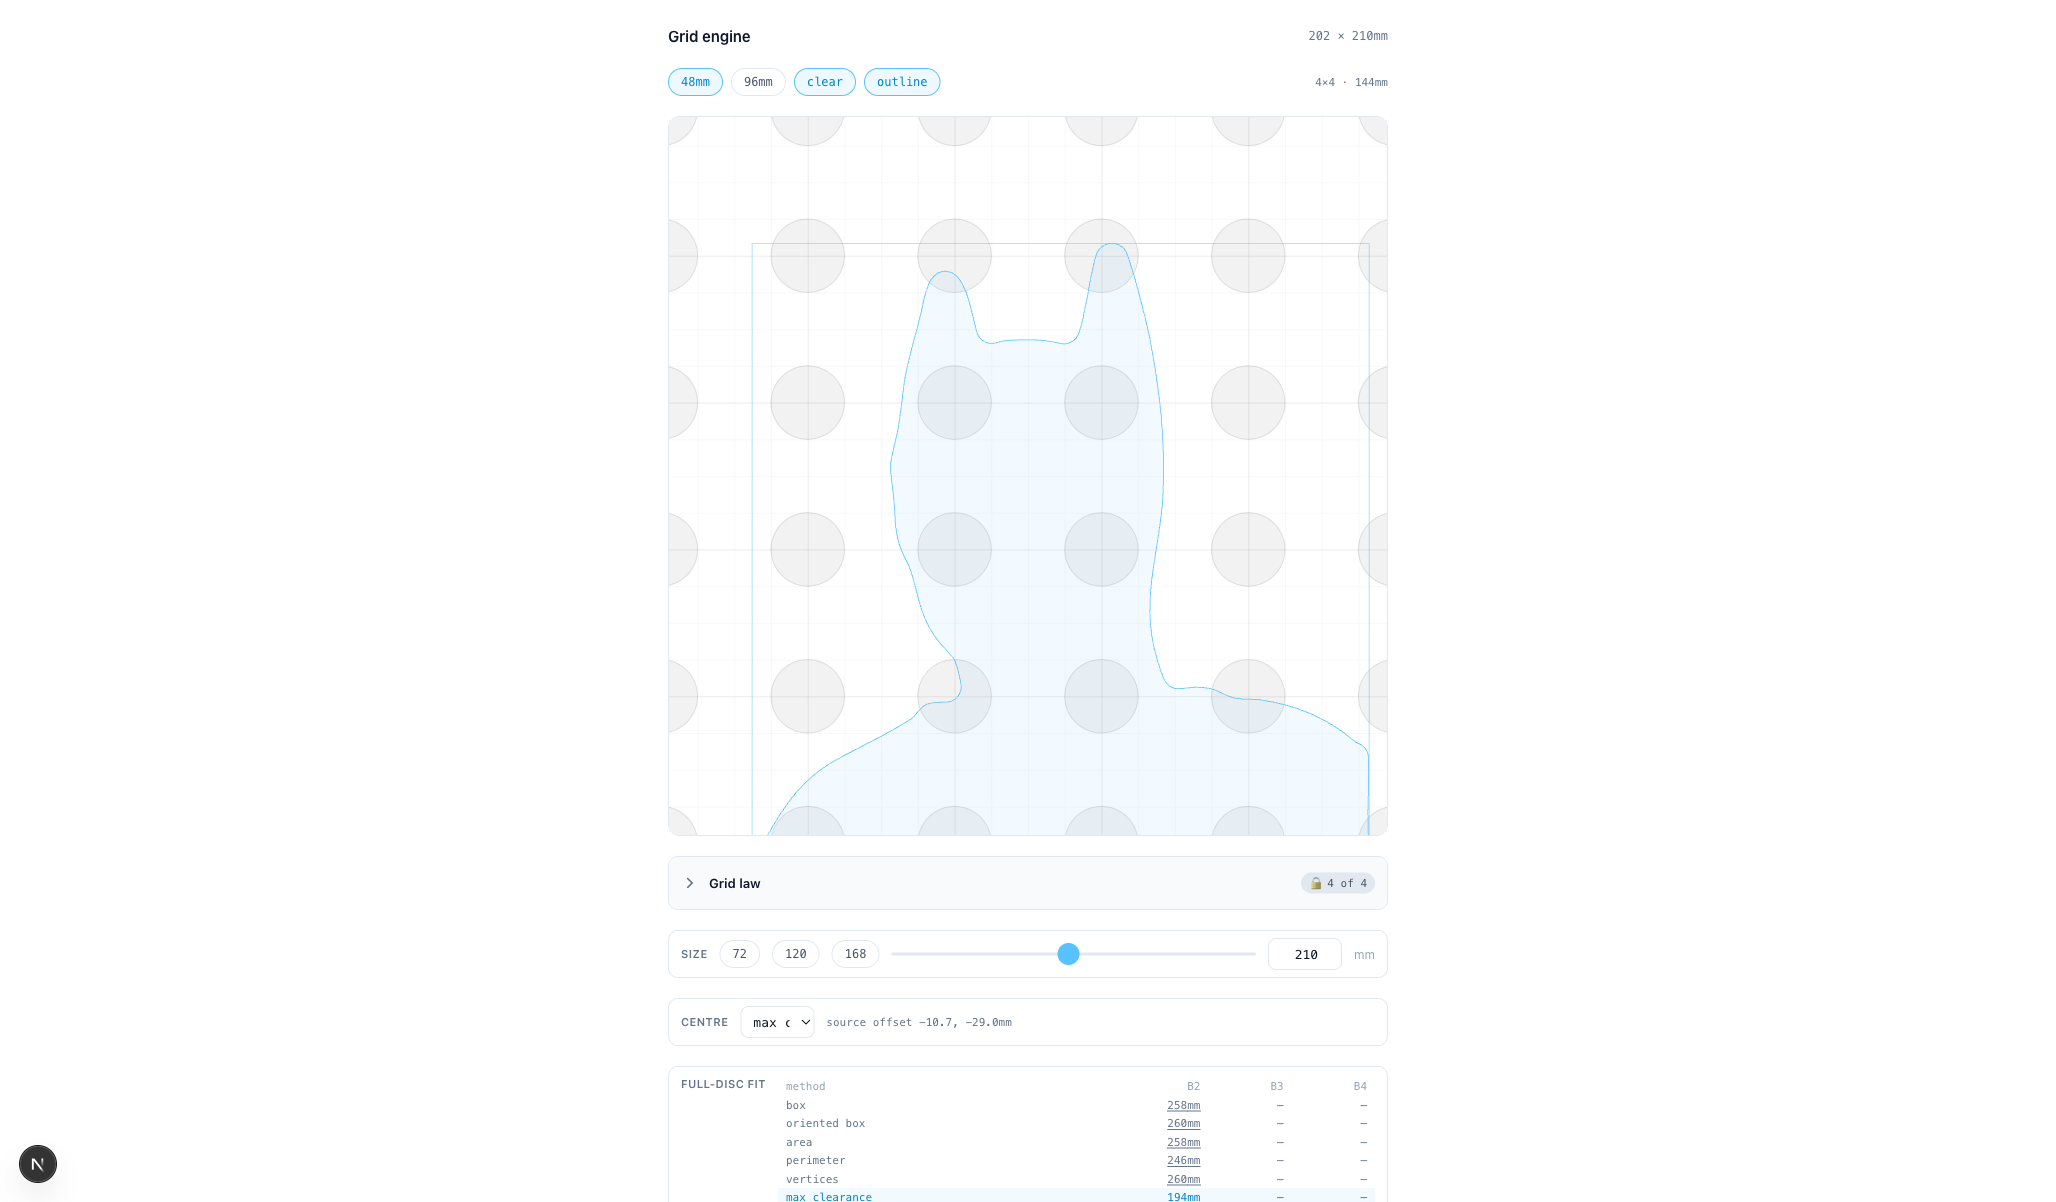
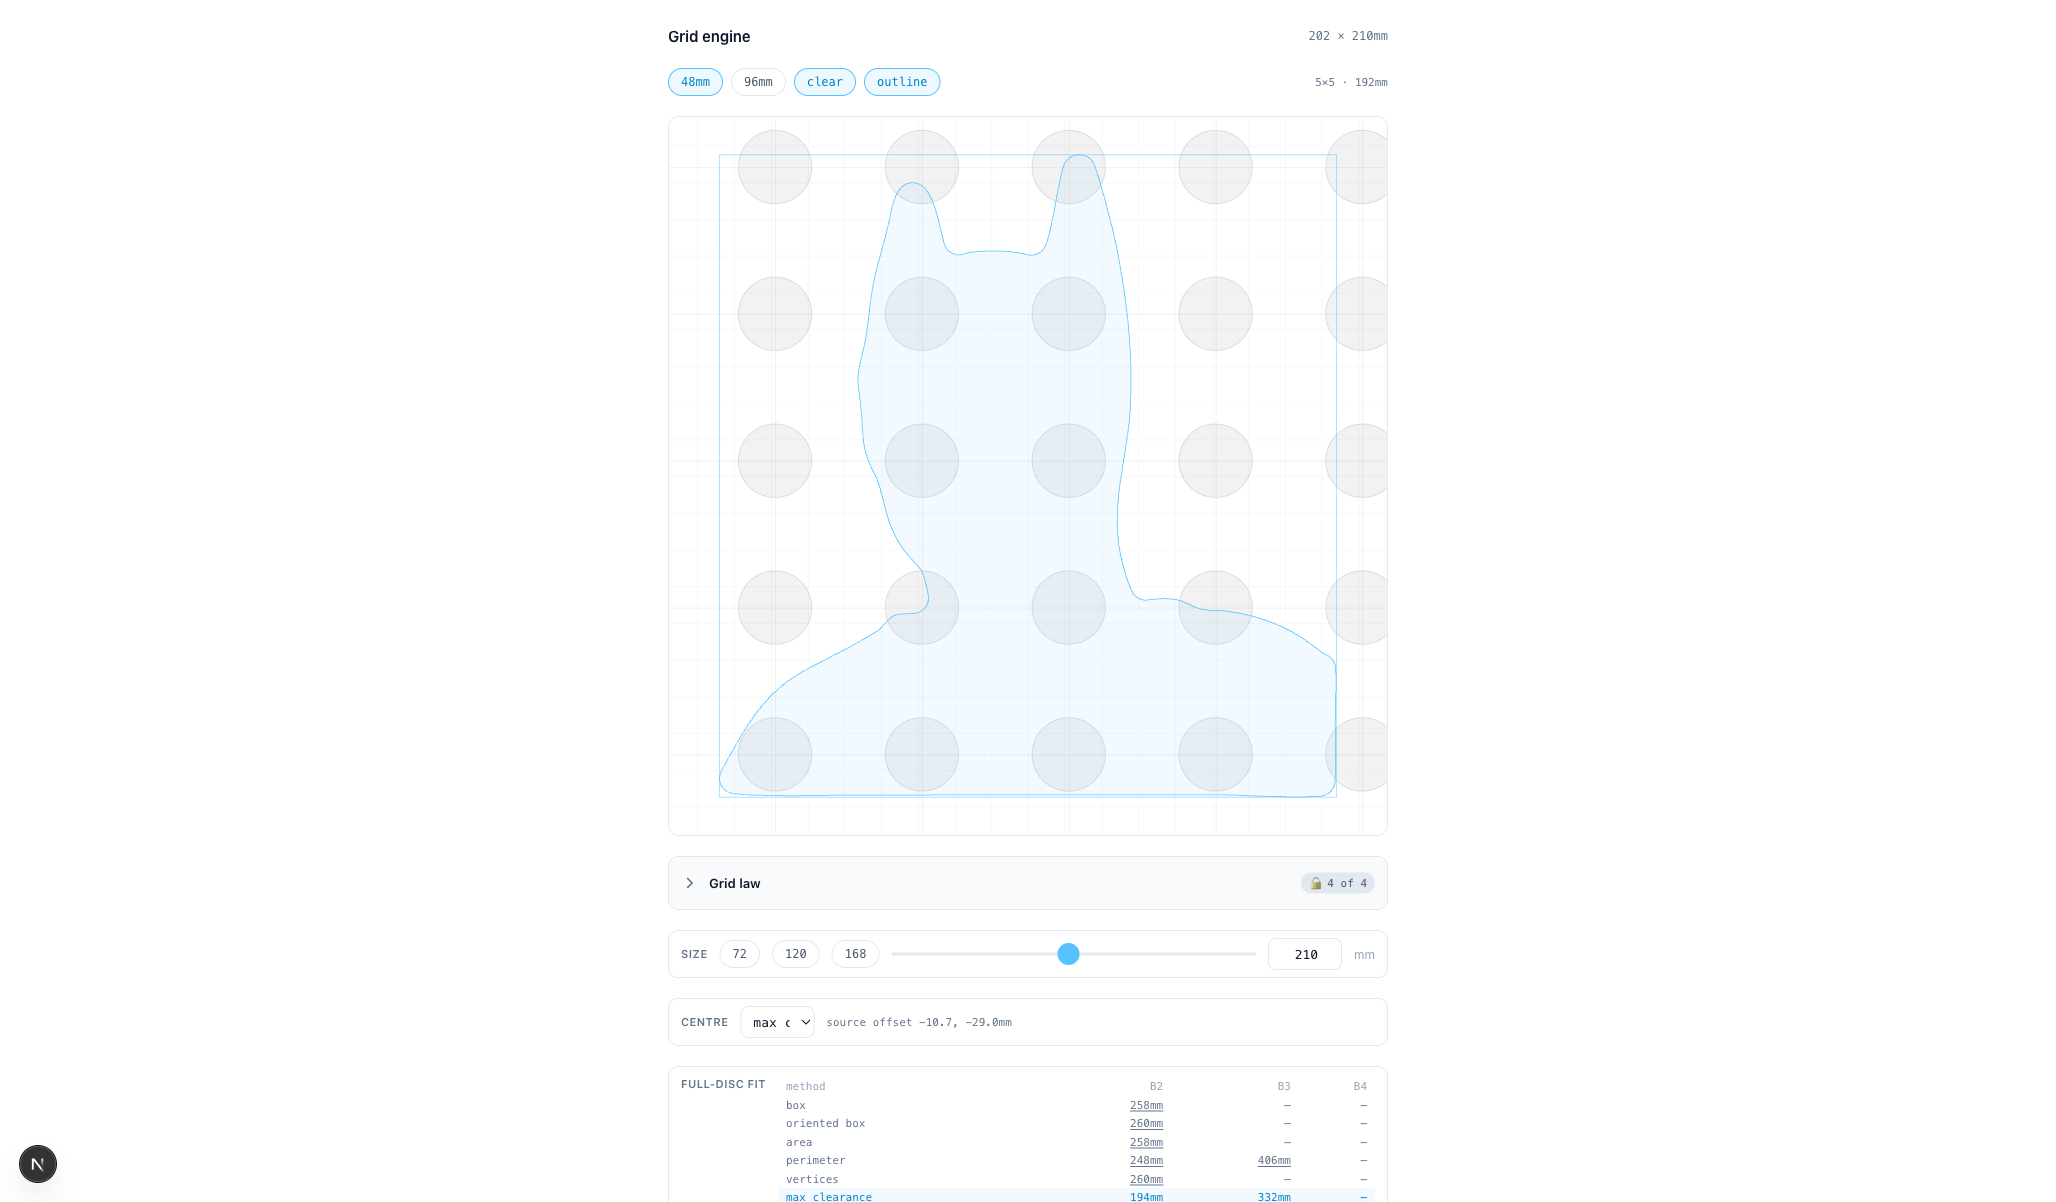
fix(grid-engine): align solver ceiling and applied scale

diff --git a/src/lib/grid-engine/__tests__/centre.test.ts b/src/lib/grid-engine/__tests__/centre.test.ts
@@ -96,7 +96,7 @@ describe('centre-method comparison', () => {
 
 describe('published full-disc placement solver', () => {
   it('rederives the exact square standards for bands 2, 3 and 4', () => {
-    const [answer] = compareCentres(RELEASED.grid, square, ['box'], [2, 3, 4])
+    const [answer] = compareCentres(RELEASED.grid, square, 100, ['box'], [2, 3, 4])
     expect(answer.fits.map(({ sizeMM }) => sizeMM)).toEqual([72, 120, 168])
     expect(answer.fits.map(({ magnetCount }) => magnetCount)).toEqual([4, 9, 16])
     expect(answer.fits.every(({ minimumClearanceMM }) => minimumClearanceMM! >= 12)).toBe(true)
@@ -106,14 +106,14 @@ describe('published full-disc placement solver', () => {
     const padding6 = { ...RELEASED.grid, paddingMM: 6 }
     const padding18 = { ...RELEASED.grid, paddingMM: 18 }
     const pitch96 = { ...RELEASED.grid, pitchMM: 96 }
-    expect(compareCentres(padding6, square, ['box'], [2])[0].fits[0].sizeMM).toBe(60)
-    expect(compareCentres(padding18, square, ['box'], [2])[0].fits[0].sizeMM).toBe(84)
+    expect(compareCentres(padding6, square, 100, ['box'], [2])[0].fits[0].sizeMM).toBe(60)
+    expect(compareCentres(padding18, square, 100, ['box'], [2])[0].fits[0].sizeMM).toBe(84)
     // 96 thins the one anchored lattice; it does not recenter the surviving population.
-    expect(compareCentres(pitch96, square, ['box'], [2])[0].fits[0].sizeMM).toBe(168)
+    expect(compareCentres(pitch96, square, 100, ['box'], [2])[0].fits[0].sizeMM).toBe(168)
   })
 
   it('proves centre choice changes the lawful manufacturing answer', () => {
-    const answers = compareCentres(RELEASED.grid, lShape, ['box', 'area'], [2])
+    const answers = compareCentres(RELEASED.grid, lShape, 120, ['box', 'area'], [2])
     expect(answers[0].fits[0].sizeMM).toBe(216)
     expect(answers[1].fits[0].sizeMM).toBe(138)
   })
@@ -125,13 +125,33 @@ describe('published full-disc placement solver', () => {
       [60, 8],
       [-60, 8],
     ]
-    const [answer] = compareCentres(RELEASED.grid, narrow, ['box'], [2])
+    const [answer] = compareCentres(RELEASED.grid, narrow, 120, ['box'], [2])
     expect(answer.fits[0].sizeMM).toBeNull()
   })
 
   it('is winding-invariant', () => {
-    const forward = compareCentres(RELEASED.grid, lShape, ['area', 'perimeter'], [2])
-    const reverse = compareCentres(RELEASED.grid, [...lShape].reverse(), ['area', 'perimeter'], [2])
+    const forward = compareCentres(RELEASED.grid, lShape, 120, ['area', 'perimeter'], [2])
+    const reverse = compareCentres(RELEASED.grid, [...lShape].reverse(), 120, ['area', 'perimeter'], [2])
     expect(reverse).toEqual(forward)
+  })
+
+  it('uses the 9x9 field ceiling rather than the obsolete millimetre cap', () => {
+    const concaveL: PointMM[] = [[0, 0], [100, 0], [100, 40], [40, 40], [40, 100], [0, 100]]
+    const [answer] = compareCentres(RELEASED.grid, concaveL, 100, ['maximum-clearance'], [3])
+    expect(answer.fits[0].sizeMM).toBe(342)
+
+    const sparse = { ...RELEASED.grid, pitchMM: 96 }
+    expect(compareCentres(sparse, square, 100, ['box'], [4])[0].fits[0].sizeMM).toBe(360)
+  })
+
+  it('solves the published box size, including transparent margin around an outline', () => {
+    const [answer] = compareCentres(RELEASED.grid, square, 120, ['box'], [2])
+    expect(answer.fits[0].sizeMM).toBe(88)
+  })
+
+  it('fails loudly for an unknown method', () => {
+    expect(() => centreOfOutline(RELEASED.grid, square, 'AREA' as CentreMethod)).toThrow(
+      'Unknown centre method',
+    )
   })
 })

diff --git a/src/lib/grid-engine/engine.ts b/src/lib/grid-engine/engine.ts
@@ -93,7 +93,12 @@ function fieldMarginMM(grid: GridSpec): number {
  * block survives into the view instead of cancelling out.
  */
 export function fieldSpanMM(spec: GridSystemSpec): number {
-  return (spec.grid.positionsPerAxis - 1) * spec.grid.basePitchMM + cellDiameterMM(spec.grid)
+  return gridFieldSpanMM(spec.grid)
+}
+
+/** The released field ceiling is a count on the base lattice, never the millimetre size cap. */
+export function gridFieldSpanMM(grid: GridSpec): number {
+  return (grid.positionsPerAxis - 1) * grid.basePitchMM + cellDiameterMM(grid)
 }
 
 /** Grow a region about its centre so it is never narrower than the field the law asks for. */
@@ -381,12 +386,17 @@ export function centreOfOutline(
   method: CentreMethod,
 ): PointMM {
   if (points.length <= 2) throw new RangeError('An outline needs at least three points.')
-  if (method === 'box') return boxCentre(points)
-  if (method === 'oriented-box') return orientedBoxCentre(points)
-  if (method === 'area') return areaCentre(points)
-  if (method === 'perimeter') return perimeterCentre(points)
-  if (method === 'vertices') return vertexCentre(points)
-  return maximumClearanceCentre(points, grid.paddingMM / 2 / 2 / 2 / 2)
+  switch (method) {
+    case 'box': return boxCentre(points)
+    case 'oriented-box': return orientedBoxCentre(points)
+    case 'area': return areaCentre(points)
+    case 'perimeter': return perimeterCentre(points)
+    case 'vertices': return vertexCentre(points)
+    case 'maximum-clearance':
+      return maximumClearanceCentre(points, grid.paddingMM / 2 / 2 / 2 / 2)
+    default:
+      throw new RangeError(`Unknown centre method: ${String(method)}`)
+  }
 }
 
 function clearanceAt(point: PointMM, polygon: ReadonlyArray<PointMM>): number {
@@ -434,23 +444,22 @@ export interface CentreComparison {
 export function compareCentres(
   grid: GridSpec,
   outline: ReadonlyArray<PointMM>,
+  sourceLongestMM: number,
   methods: ReadonlyArray<CentreMethod>,
   bands: ReadonlyArray<number>,
 ): CentreComparison[] {
   if (outline.length <= 2) throw new RangeError('An outline needs at least three points.')
-  const xs = outline.map(([x]) => x)
-  const ys = outline.map(([, y]) => y)
-  const longest = Math.max(Math.max(...xs) - Math.min(...xs), Math.max(...ys) - Math.min(...ys))
-  if (longest === 0) throw new RangeError('An outline must have a measurable span.')
+  if (sourceLongestMM <= 0) throw new RangeError('The source box must have a measurable span.')
   const floor = cellDiameterMM(grid)
+  const ceiling = gridFieldSpanMM(grid)
 
   return methods.map((method) => {
     const centreMM = centreOfOutline(grid, outline, method)
     const fits = bands.map((band): BandFit => {
       const registration: Registration = band % 2 === 0 ? 'gap' : 'point'
       const magnets = centredBand(grid, band, registration)
-      for (let sizeMM = Math.ceil(floor / 2) * 2; sizeMM <= grid.maxSizeMM; sizeMM += 2) {
-        const scale = sizeMM / longest
+      for (let sizeMM = Math.ceil(floor / 2) * 2; sizeMM <= ceiling; sizeMM += 2) {
+        const scale = sizeMM / sourceLongestMM
         const polygon = outline.map(
           ([x, y]) => [(x - centreMM[0]) * scale, (y - centreMM[1]) * scale] as PointMM,
         )

diff --git a/src/lib/grid-engine/bridge.ts b/src/lib/grid-engine/bridge.ts
@@ -69,7 +69,7 @@ export function compareOutlineCentres(
   bands: ReadonlyArray<number>,
 ): CentreComparison[] {
   const points = outline.map(([u, v]) => [box.x + u * box.w, box.y + v * box.h] as PointMM)
-  return compareCentres(spec.grid, points, methods, bands)
+  return compareCentres(spec.grid, points, Math.max(box.w, box.h), methods, bands)
 }
 
 /** One field, solved. Everything a surface may draw or say about it is in here. */
